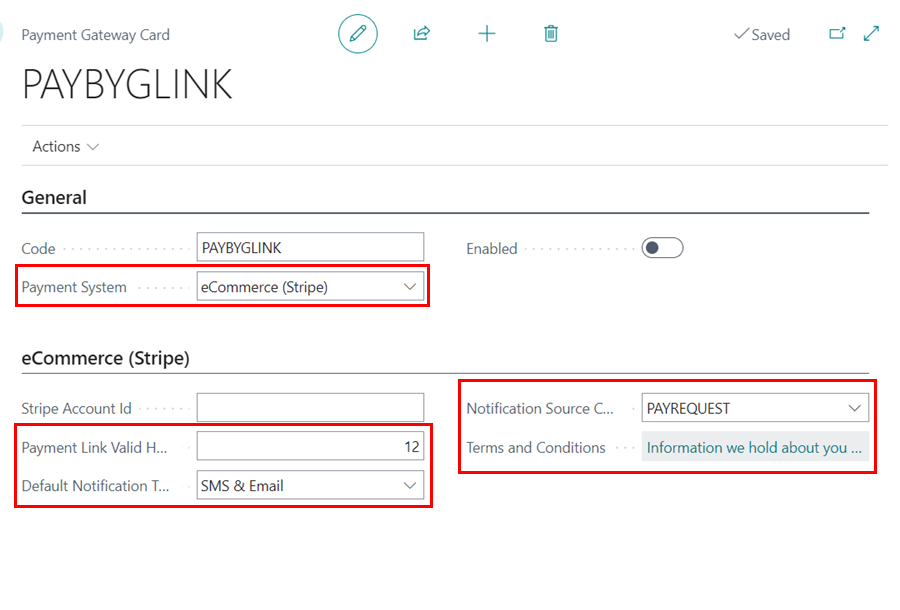
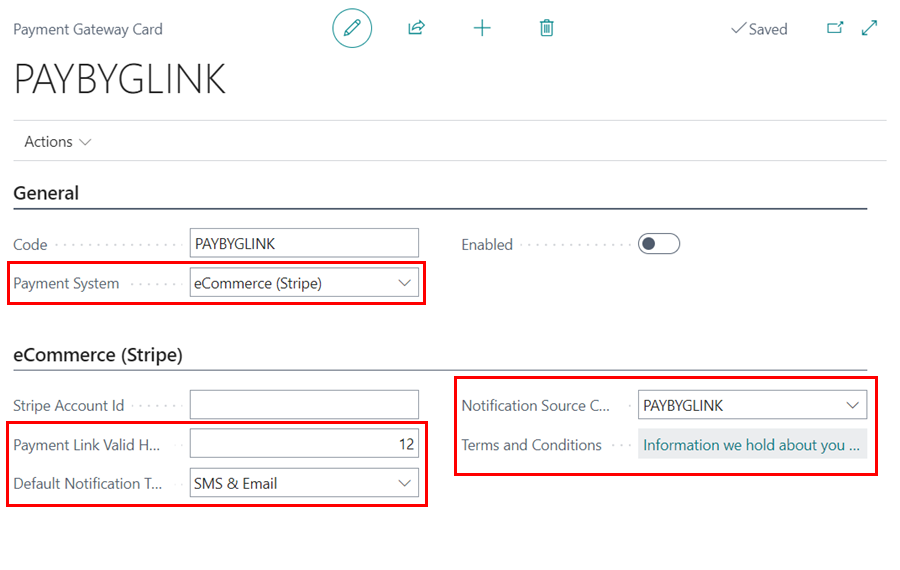
pay by stripe

diff --git a/docs/garagehive-stripe-integration.md b/docs/garagehive-stripe-integration.md
@@ -12,8 +12,7 @@ We are currently reviewing this article before it is published, check back later
 
 ## In this article
 1. [Setting Up Payment with Stripe](#setting-up-payment-with-stripe)
-2. [Create Stripe Payment Method for Locations](#create-stripe-payment-method-for-locations)
-3. [Take Payment using Stripe Payment Method](#take-payment-using-stripe-payment-method)
+2. [Take Payment using Stripe Payment Method](#take-payment-using-stripe-payment-method)
 
 ### Setting Up Payment with Stripe
 Garage Link for Stripe is a payment gateway used for online transactions powered by **Stripe**. Before setting it up in the Garage Hive system, make sure you've created a Stripe account at [stripe.com](https://dashboard.stripe.com/register). To set up Garage Link for Stripe in Garage Hive:
@@ -26,7 +25,7 @@ Garage Link for Stripe is a payment gateway used for online transactions powered
    ![](media/garagehive-stripe-payment2.png)
 
 3. In the **Payment Gateway Card**, set the **Payment System** to **eCommerce (Stripe)**.
-4. In the **eCommerce (Stripe)** section, specify how many hours the payment link should be valid for in **Payment Link Valid Hours**. Choose the **Default Notification Type**, set the Notification **Source Code** to **PAYREQUEST**, and enter your **Terms and Conditions** in the provided field.
+4. In the **eCommerce (Stripe)** section, specify how many hours the payment link should be valid for in **Payment Link Valid Hours**. Choose the **Default Notification Type**, set the Notification **Source Code** to **PAYBYGLINK**, and enter your **Terms and Conditions** in the provided field.
 
    ![](media/garagehive-stripe-payment3.png)
 
@@ -41,27 +40,6 @@ Garage Link for Stripe is a payment gateway used for online transactions powered
 7. Paste the **Account ID** in the **Stripe Account ID** field, and click on the **Enabled** slider to enable the payment method in your system.
 
    ![](media/garagehive-stripe-payment6.png)
-
-
-[Go back to top](#top)
-
-### Create Stripe Payment Method for Locations
-To create the Stripe payment method:
-1. In the top-right corner, choose the ![](media/search_icon.png) icon, enter **Payment Methods**, and choose the related link.
-
-   ![](media/garagehive-stripe-payment-method1.png)
-
-2. Create a **New** payment method and name it **INGLINK**. Link it to the **G/L Account** by entering the **Bal. Account No.**.
-
-   ![](media/garagehive-stripe-payment-method2.png)
-
-3. Next, search for **Location Payment Methods**, and choose the related link.
-
-   ![](media/garagehive-stripe-payment-method3.png)
-
-4. Create a **New** Location Payment Method, select the **Pay By Garage Link** Payment Method Code and connect it to the **Payment Gateway Code** that you set up.
-
-   ![](media/garagehive-stripe-payment-method4.png)
 
 
 [Go back to top](#top)
